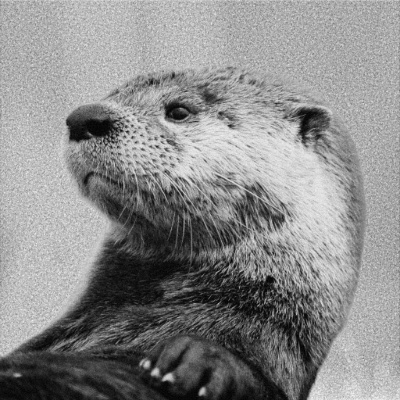
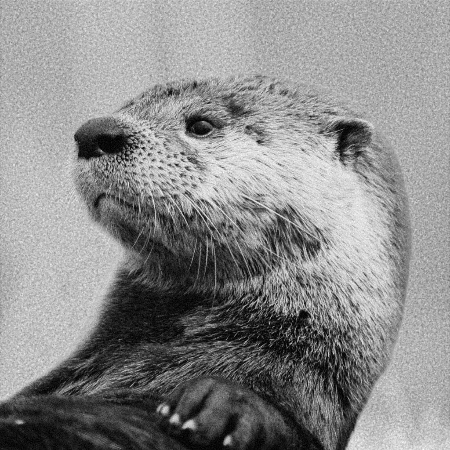
AppLinks support, and copy edits

diff --git a/index.html b/index.html
@@ -13,7 +13,7 @@
         </script>
 
         <meta charset="utf-8">
-        <title>Romp — Shared Vlog</title>
+        <title>Romp — Shared Vlogs</title>
         <link rel="stylesheet" href="https://maxcdn.bootstrapcdn.com/bootstrap/4.0.0-beta/css/bootstrap.min.css"
         integrity="sha384-/Y6pD6FV/Vv2HJnA6t+vslU6fwYXjCFtcEpHbNJ0lyAFsXTsjBbfaDjzALeQsN6M" crossorigin="anonymous">
         <link rel="stylesheet" href="style.css">
@@ -23,8 +23,9 @@
         <div class="container">
             <div class="row">
                 <div class="col">
-                    <h1>Romp — Shared Vlogging App</h1>
-                    <img width=400px src="/resources/romp-icon.jpg">
+                    <h1>Romp</h1>
+                    <h2>Shared Vlogs With Friends</h2>
+                    <a href="https://testflight.apple.com/join/Q276C1fR"><img width=450px src="/resources/romp-icon.jpg" style="text-align: center;"></a>
                 </div>
             </div>
             
@@ -33,8 +34,10 @@
             <div class="row">
                 <div class="col">
                     <p>
-                        Romp is currently in beta on iOS only. Join the <a href="https://testflight.apple.com/join/Q276C1fR">Testflight</a>.
+                        Romp is not a vlog app for things like TikTok. It's for capturing shared experiences from multiple perspectives. Put another way, it lets the photographer be in some of the photos too.
                         <br>
+                        <br>
+                        Romp is currently in beta on iOS only. Join the <a href="https://testflight.apple.com/join/Q276C1fR">Testflight</a>.
                         <br>
                         Feedback? Let me know at caiismyname2012@gmail.com
                         <br>
@@ -42,11 +45,6 @@
                         "Romp" is the collective noun for a group of otters, hence the logo.
                         <br>
                         <br>
-                        <ul>
-                            <li>Share Romp with your friends and add videos to the same vlog</li>
-                            <li>Export your vlogs to your photo roll at the end</li>
-                            <li>Perfect for trips, special days, and parties</li>
-                        </ul>
                     </p>
                 </div>
             </div>

diff --git a/style.css b/style.css
@@ -9,13 +9,18 @@ h1 {
   text-decoration: bold;
 }
 
+h2 {
+  font-size: 3.0em;
+  text-decoration: bold;
+}
+
 p {
-  font-size:1.2em;
+  font-size:1.75em;
 }
 
 a {
-  text-decoration: none;
-  color: black;
+  text-decoration: underline;
+  color: #0066cc;
 }
 
 .list-group-item {
